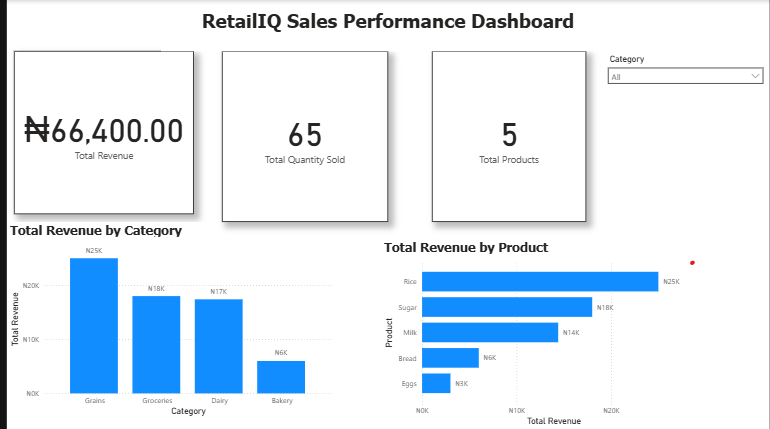
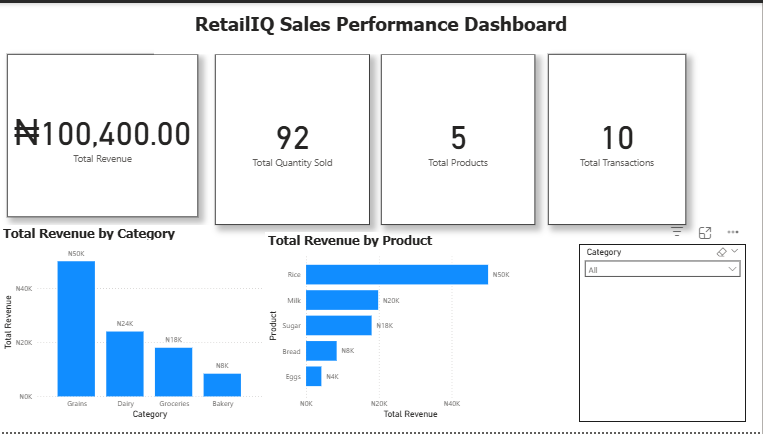
Update dashboard and project documentation

Changed region(s): [[0.0, 0.0, 1.0, 1.0], [0.6632, 0.9394, 0.9948, 1.0], [0.3316, 0.2727, 0.4522, 0.3939]]

diff --git a/README.md b/README.md
@@ -20,6 +20,18 @@ The RetailIQ Power BI dashboard provides an interactive overview of retail sales
 RetailIQ follows an end-to-end data workflow:
 
 CSV Files → Python/Pandas → MySQL Database → SQL Analysis → Power BI Dashboard
+### Data Model
+
+RetailIQ uses a relational database structure with two main tables:
+
+- **products** — stores each unique product and its category.
+- **sales** — stores individual sales transactions.
+
+The tables are connected through `ProductID`:
+
+products (1) → (*) sales
+
+`ProductID` is the primary key in the `products` table and a foreign key in the `sales` table, creating a one-to-many relationship where one product can appear in multiple sales transactions.
 
 ### Data Flow
 
@@ -45,13 +57,14 @@ CSV Files → Python/Pandas → MySQL Database → SQL Analysis → Power BI Das
 ---
 ## Key Business Insights
 
-- Total revenue generated: **₦66,400**
-- Total quantity sold: **65 units**
-- Total products analyzed: **5**
-- **Rice** generated the highest product revenue at **₦25,000**
-- **Grains** was the highest-performing category with **₦25,000** in revenue
-- Rice contributed approximately **37.65%** of total revenue
-- Rice, Milk, and Sugar each contributed more than 20% of total revenue
+- Total Revenue: ₦100,400
+- Total Quantity Sold: 92 units
+- Total Unique Products: 5
+- Total Sales Transactions: 10
+- Rice generated the highest product revenue at ₦50,000.
+- Grains was the highest-performing category with ₦50,000 in revenue.
+- Dairy generated ₦24,000 in revenue.
+- Eggs recorded the highest quantity sold at 42 units.
 
 ---
 ## Project Structure
